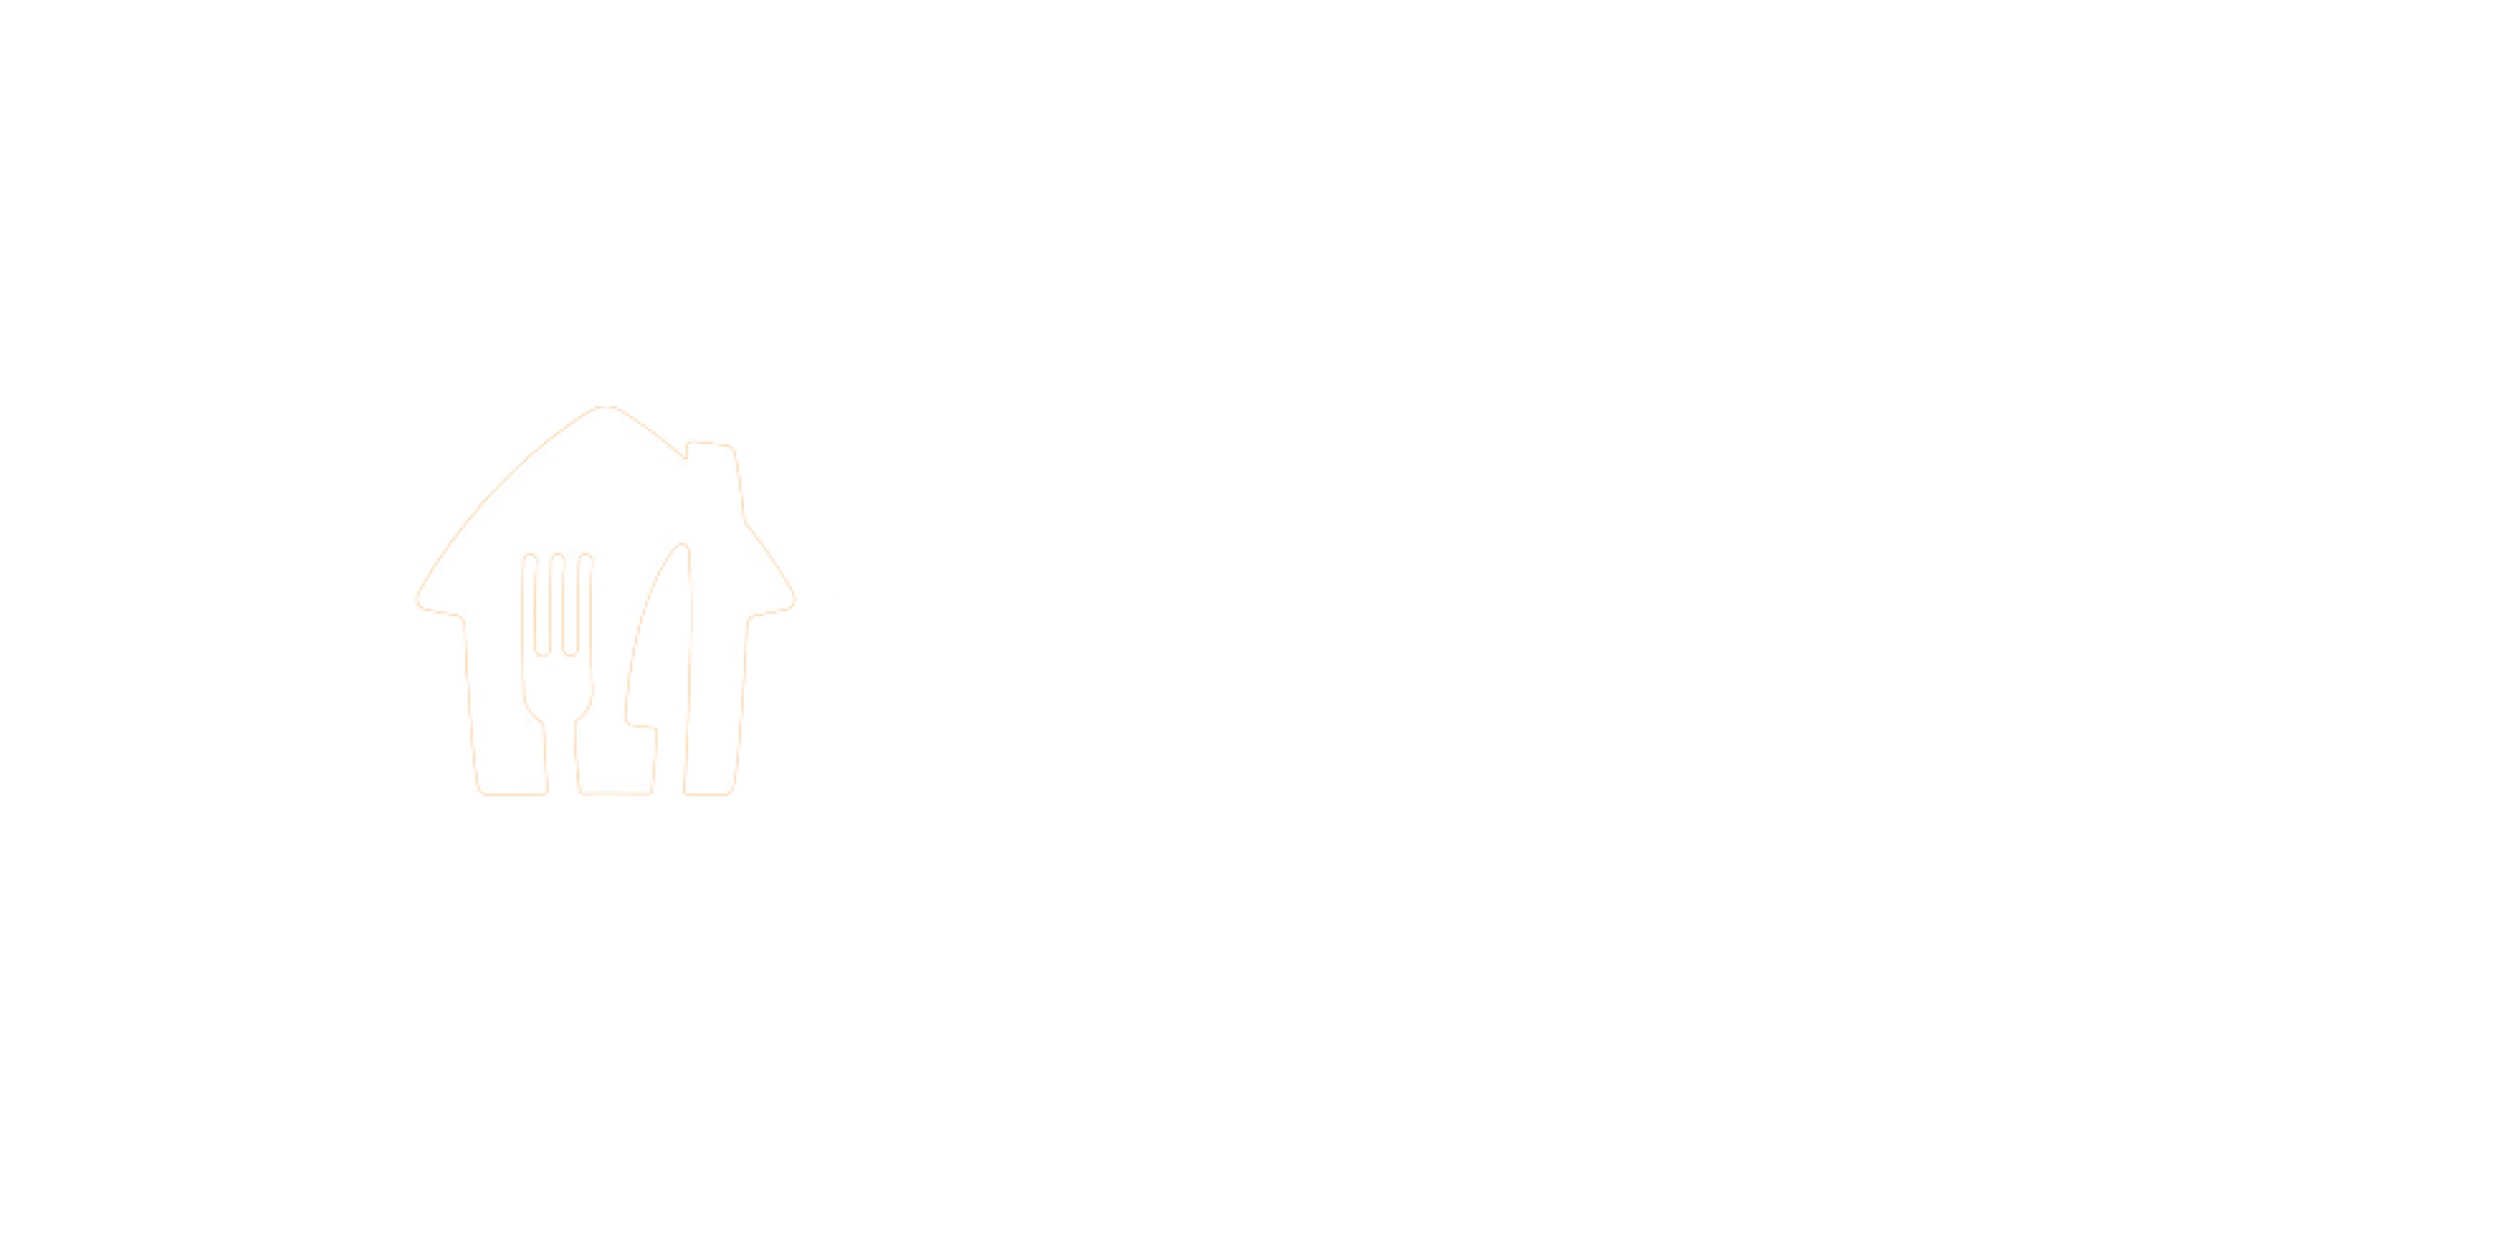
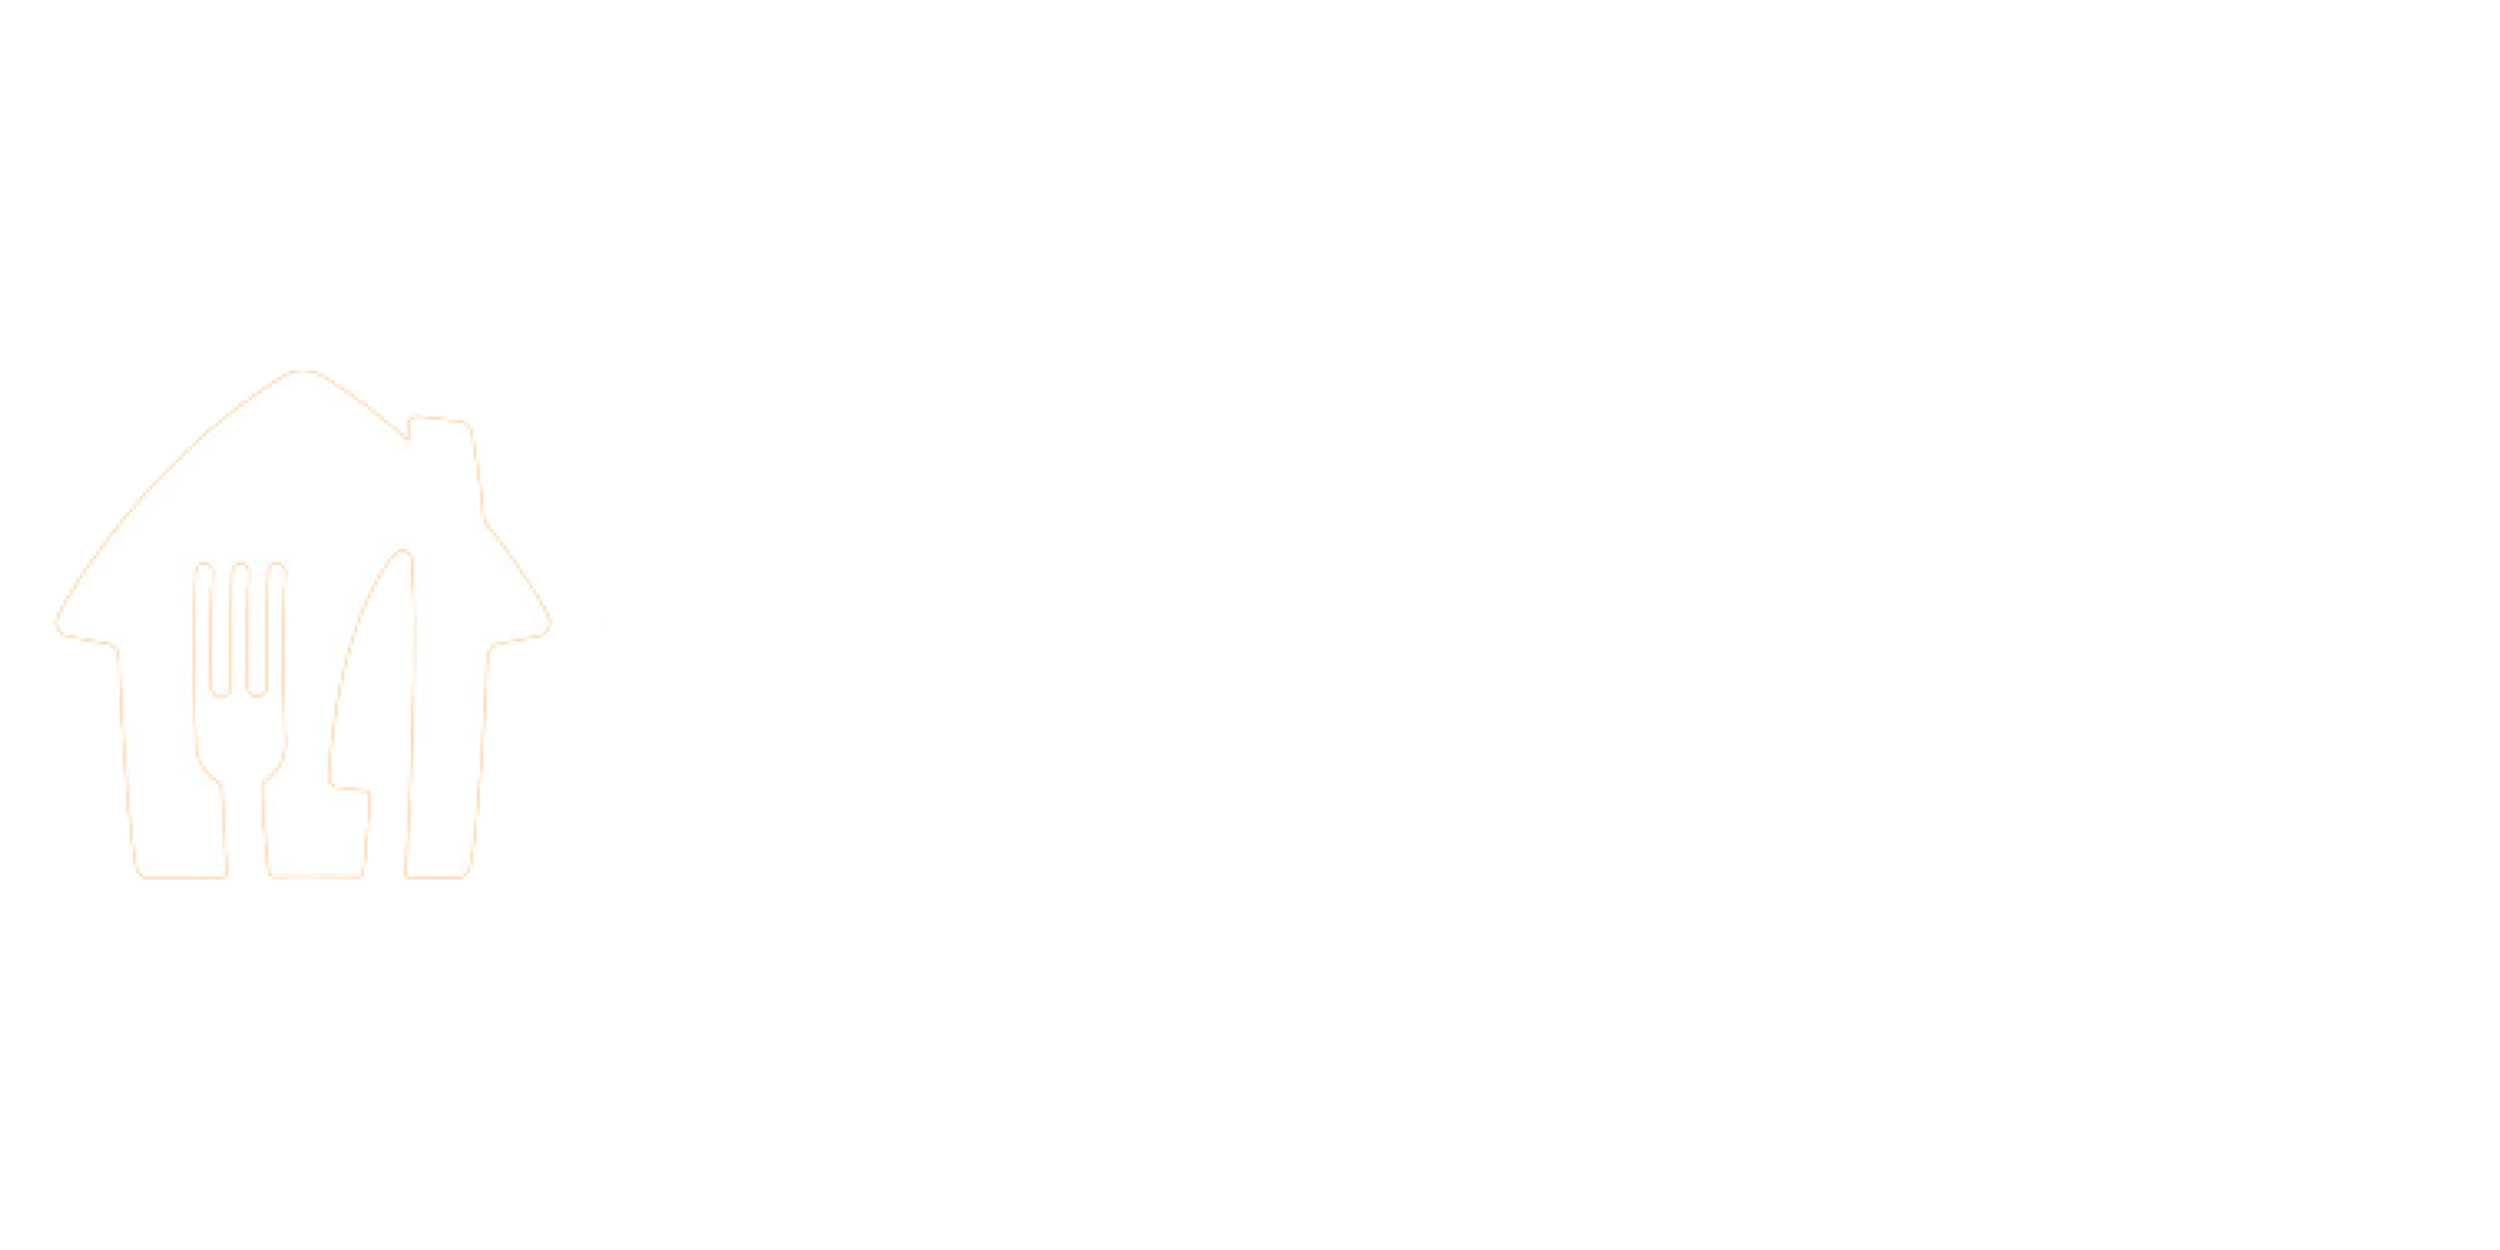
y

diff --git a/public_html/index.html b/public_html/index.html
@@ -42,20 +42,6 @@
                     <li class="nav-item">
                         <a class="nav-link" href="#team">Contact Us</a>
                     </li>
-                    <!--
-                    <li class="nav-item">
-                        <a class="nav-link" href="#testimonial">Testimonial</a>
-                    </li>
-                    <li class="nav-item">
-                        <a class="nav-link" href="#blog">Blog</a>
-                    </li>
-                    <li class="nav-item">
-                        <a class="nav-link" href="#contact">Contact</a>
-                    </li>
-                    <li class="nav-item">
-                        <a class="nav-link btn btn-primary btn-sm ml-lg-3" href="components.html">Components</a>
-                    </li>
-                    -->
                 </ul>
             </div>
         </div>
@@ -65,8 +51,9 @@
     <!-- Page Header -->
      <header class="header">
         <div class="overlay">
-            <h6 class="subtitle"> Know What Food Is Safe For You </h6>
-            <h1 class="title">SafeGrub</h1>
+            <div class="header2">
+            <img src="assets/imgs/grubhub.jpg" alt="logo" />
+            </div>
             <div class="buttons text-center">
             
                 <a href="#service" class="btn btn-primary rounded w-lg btn-lg my-1">Our Service</a>
@@ -76,6 +63,7 @@
     </header>
     <!-- End Of Page Header -->
 
+    
     <!-- Box -->
 
      <div class="box text-center">
@@ -104,6 +92,7 @@
  
     <!-- About Section -->
     <section id="scan">
+        <h5 class="section-title text-center mb-6">Safe Food, Safe You</h5> 
         <div class="container">
             <div class="row align-items-center">
                 <div class="col-md-5 col-lg-4">
@@ -172,6 +161,8 @@
         <div class="container">
             <h5 class="section-title text-center mb-6">Did You Know?</h5> 
             <div class="row">
+                <script src="https://unpkg.com/@lottiefiles/lottie-player@latest/dist/lottie-player.js"></script>
+                <lottie-player src="https://assets6.lottiefiles.com/packages/lf20_opjebefq.json"  background="transparent"  speed="1.5"  style="width: 300px; height: 300px;" hover loop  ></lottie-player>
                 <div class="col-sm-4 col-md-3">
                     <div class="card mb-4">
                         <div class="card-body">
@@ -208,47 +199,12 @@
                         </div>
                     </div>
                 </div>
-                
             </div>  
         </div>
     </section>
     <!-- End of Service Section -->
 
-    <!-- Portfolio section -->
-    <section id="visualize">
-        <div class="container text-center">
-            <h6 class="section-title mb-5">Visualization</h6>
-                    <div class="row justify-content-between">
-                        <div class="col-md-5">
-                           <hr>
-                           <small>Default: </small>
-                           <div class="progress mt-2 mb-3">
-                              <div class="progress-bar" role="progressbar" style="width: 90%" aria-valuenow="25" aria-valuemin="0" aria-valuemax="100"><span>90%</span></div>
-                           </div>
-                           <small>Success:</small>
-                           <div class="progress mt-2 mb-3">
-                              <div class="progress-bar bg-success" role="progressbar" style="width: 90%" aria-valuenow="25" aria-valuemin="0" aria-valuemax="100"><span>90%</span></div>
-                           </div>
-                           <small>Danger:</small>
-                           <div class="progress mt-2 mb-3">
-                              <div class="progress-bar bg-danger" role="progressbar" style="width: 90%" aria-valuenow="25" aria-valuemin="0" aria-valuemax="100"><span>90%</span></div>
-                           </div>
-                           <small>Warning:</small>
-                           <div class="progress mt-2 mb-3">
-                              <div class="progress-bar bg-warning" role="progressbar" style="width: 90%" aria-valuenow="25" aria-valuemin="0" aria-valuemax="100"><span>90%</span></div>
-                           </div>
-                           <small>Info:</small>
-                           <div class="progress mt-2 mb-3">
-                              <div class="progress-bar bg-info" role="progressbar" style="width: 90%" aria-valuenow="25" aria-valuemin="0" aria-valuemax="100"><span>90%</span></div>
-                           </div>
-                           <small>Dark:</small>
-                           <div class="progress mt-2 mb-3">
-                              <div class="progress-bar bg-dark" role="progressbar" style="width: 90%" aria-valuenow="25" aria-valuemin="0" aria-valuemax="100"><span>90%</span></div>
-                           </div>
-                        
-                     </div> <!-- End of Progress bars -->
-               
-    <!-- End of portfolio section -->
+
 
     <!-- Team Section -->
     <section id="team">

diff --git a/public_html/assets/css/creative-studio.css b/public_html/assets/css/creative-studio.css
@@ -12145,3 +12145,9 @@ margin:0 5px;
 .our-webcoderskull .cnt-block .follow-us li .fa:hover{ 
  color:#025a8e;
 }
+
+.header2 img {
+  float: left;
+  width: 800px;
+  height: 400px;
+}
